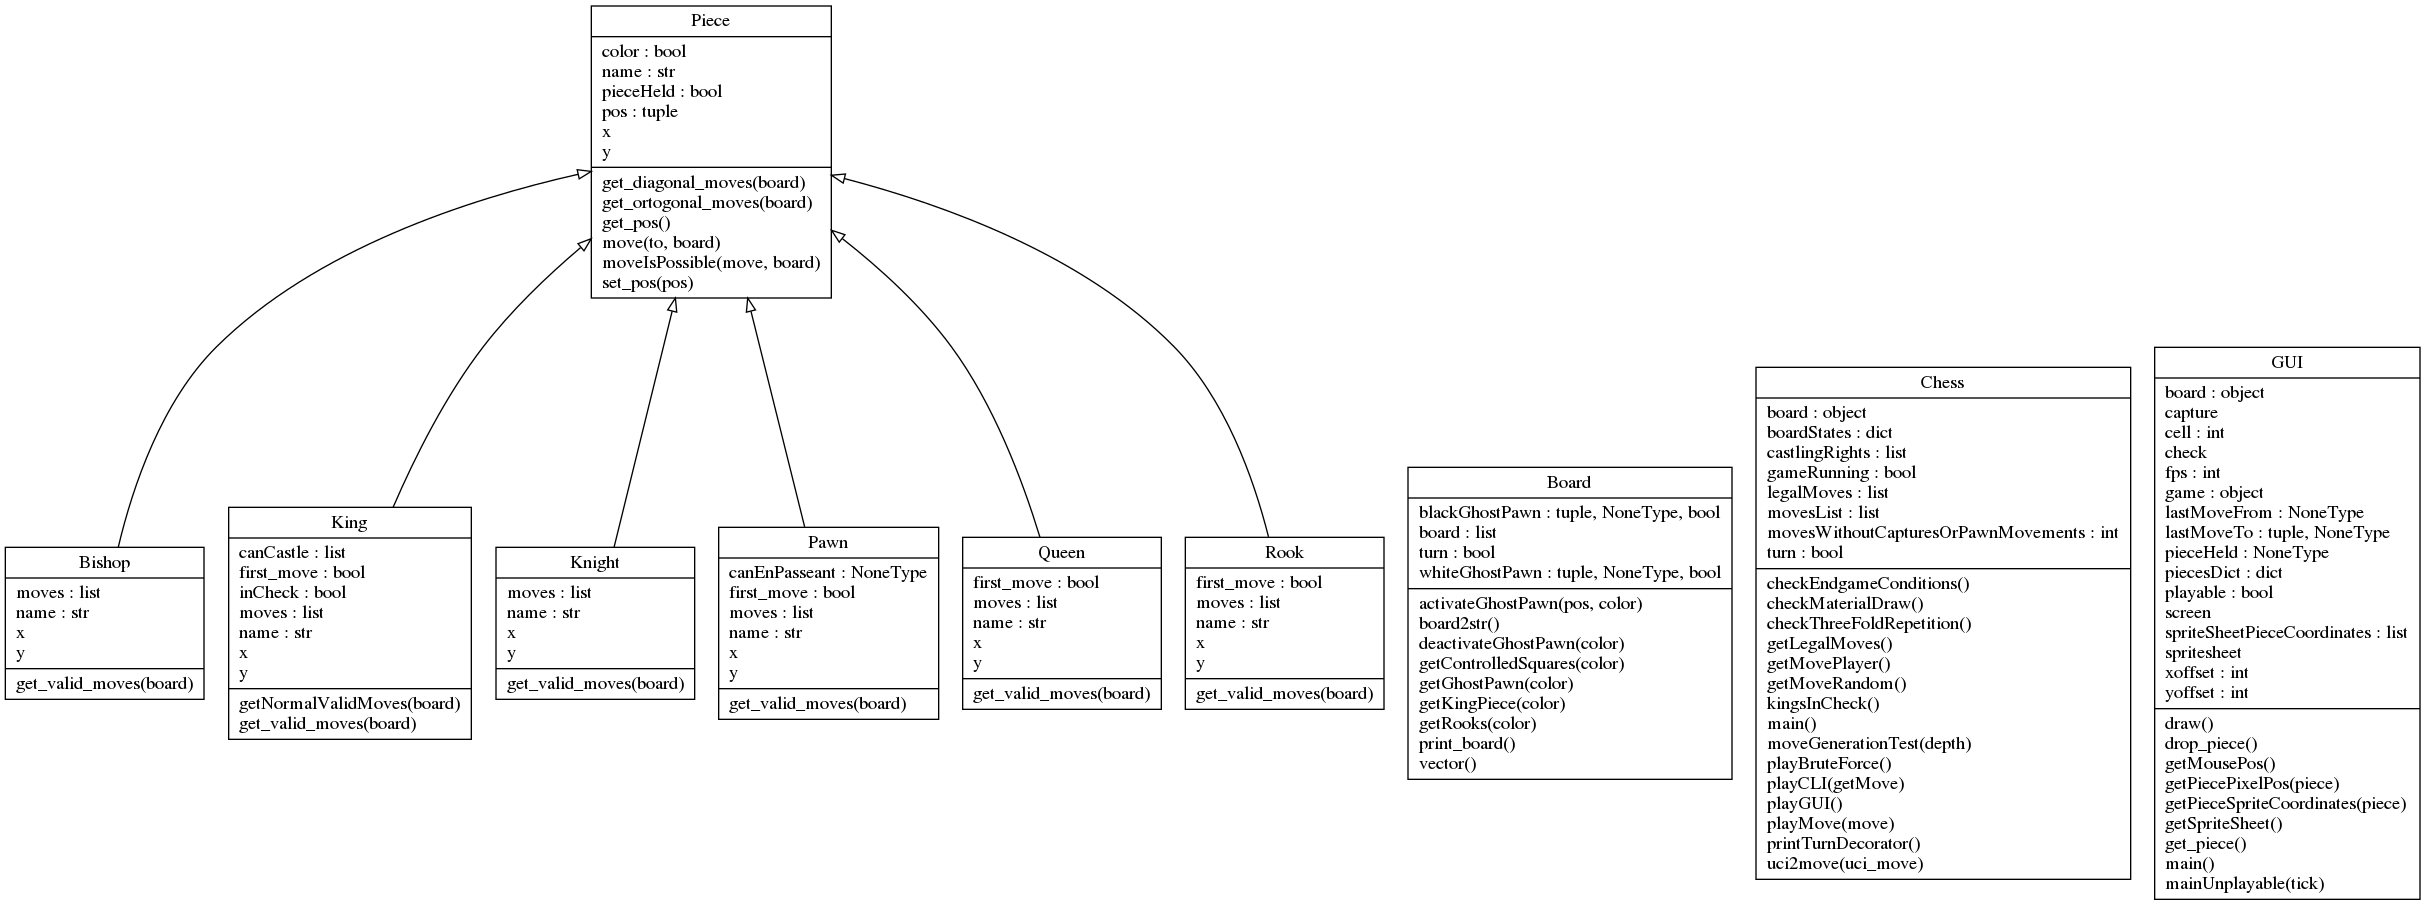
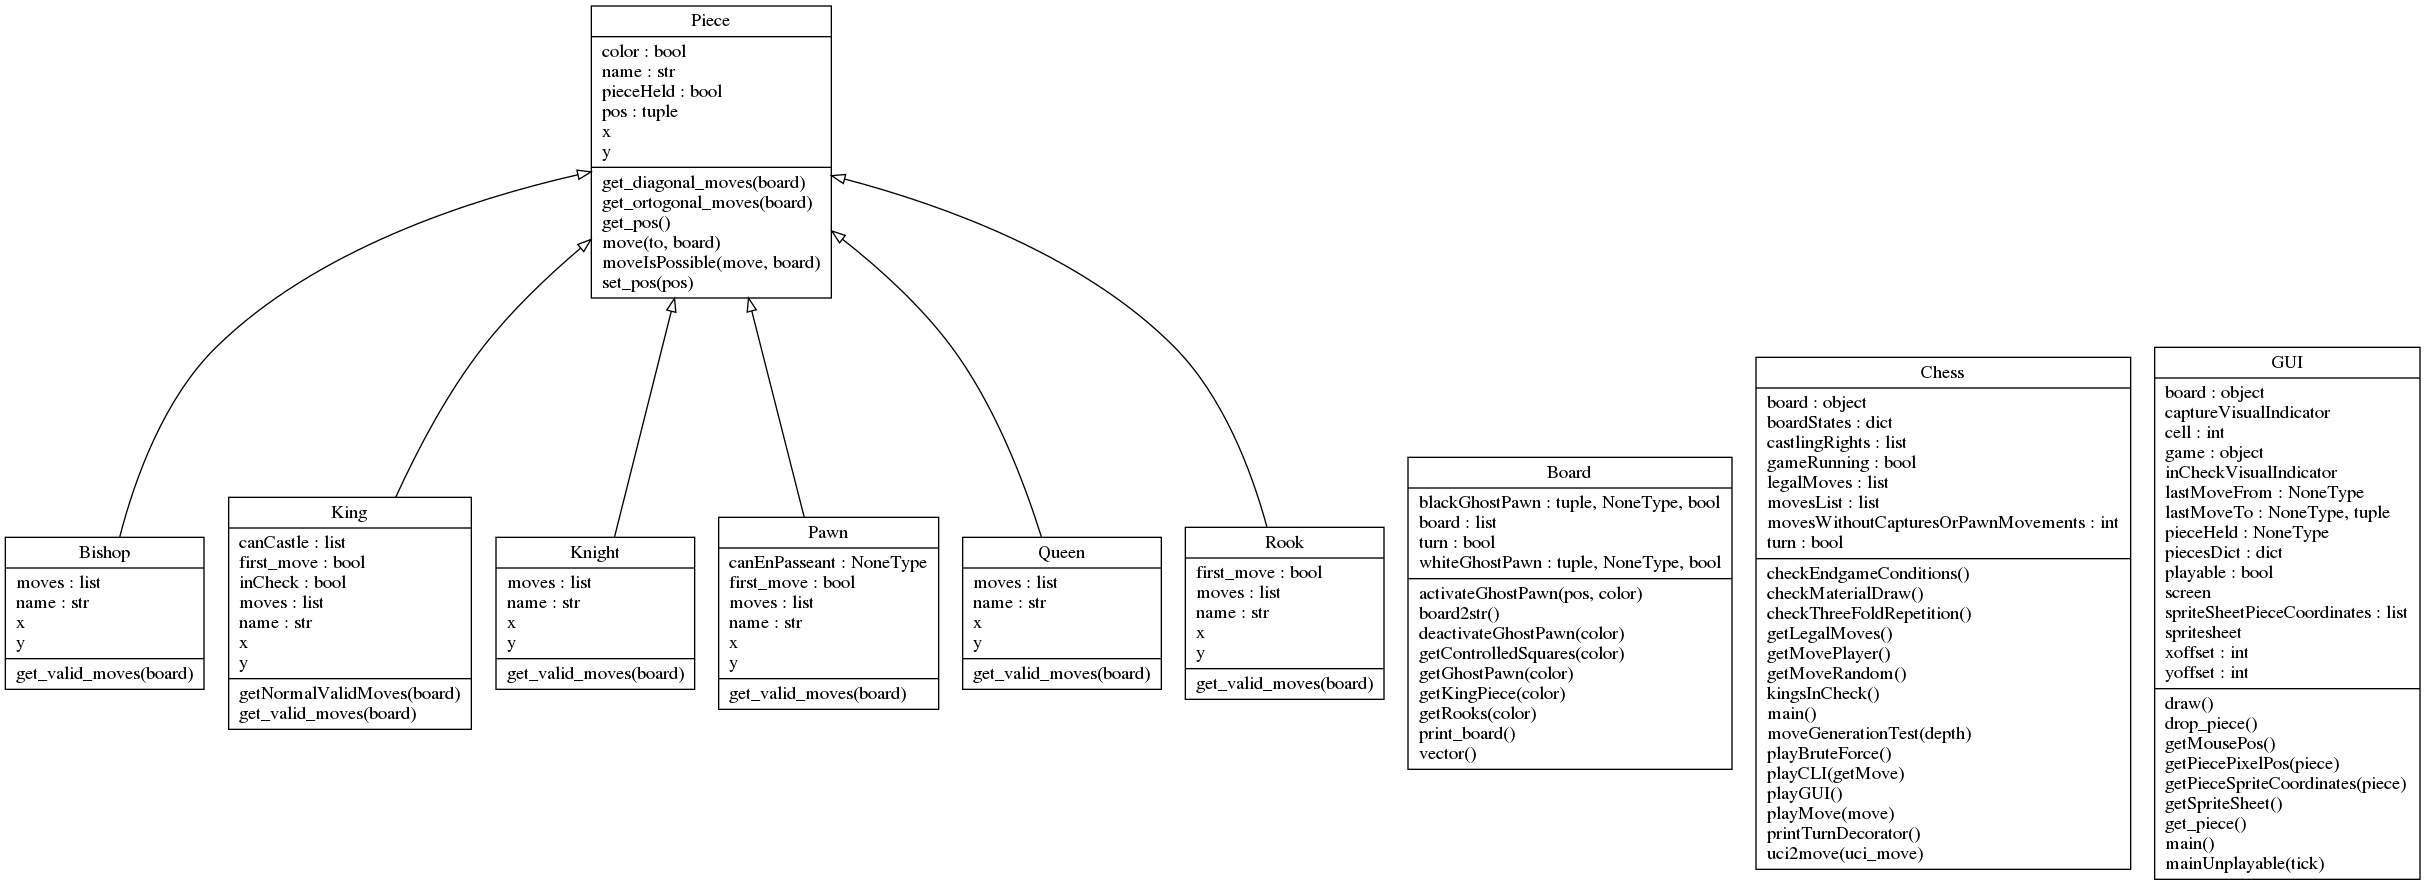
Commit before using sed

diff --git a/GUI.py b/GUI.py
@@ -11,7 +11,6 @@ class GUI():
     def __init__(self, board, width, height, game, playable=True):
         pygame.init()
 
-        self.fps = 60
         self.cell : int = width//8
         self.game : object = game
         self.playable : bool = playable
@@ -20,8 +19,8 @@ class GUI():
 
         self.board : object = board 
         self.spritesheet = pygame.image.load("res/pieces.png").convert_alpha()
-        self.capture = pygame.image.load("res/capture2.png").convert_alpha()
-        self.check = pygame.image.load("res/Check.png").convert_alpha()
+        self.captureVisualIndicator = pygame.image.load("res/capture2.png").convert_alpha()
+        self.inCheckVisualIndicator = pygame.image.load("res/Check.png").convert_alpha()
         self.lastMoveFrom = None
         self.lastMoveTo = None
 
@@ -96,7 +95,7 @@ class GUI():
                     if not piece.pieceHeld:
                         piece_pixel_pos = self.getPiecePixelPos(piece)
                         if piece.name == "K" and piece.inCheck:
-                            self.screen.blit(self.check, piece_pixel_pos)
+                            self.screen.blit(self.inCheckVisualIndicator, piece_pixel_pos)
                         self.screen.blit(self.spritesheet, piece_pixel_pos, coord)
 
         if self.pieceHeld:
@@ -129,7 +128,7 @@ class GUI():
                                 coord = self.getPieceSpriteCoordinates(piece_capturing)
                                 piece_pixel_pos = self.getPiecePixelPos(piece_capturing)
                                 self.screen.blit(self.spritesheet, piece_pixel_pos, coord)
-                                self.screen.blit(self.capture, (x,y))
+                                self.screen.blit(self.captureVisualIndicator, (x,y))
                         
                     else:
                         if self.pieceHeld:

diff --git a/piece.py b/piece.py
@@ -270,7 +270,6 @@ class Queen(Piece):
     def __init__(self, color, x,y,  first_move = True):
         super().__init__(color,x,y)
         self.name = "Q"
-        self.first_move = first_move 
         self.moves = []
         self.x = x
         self.y = y
